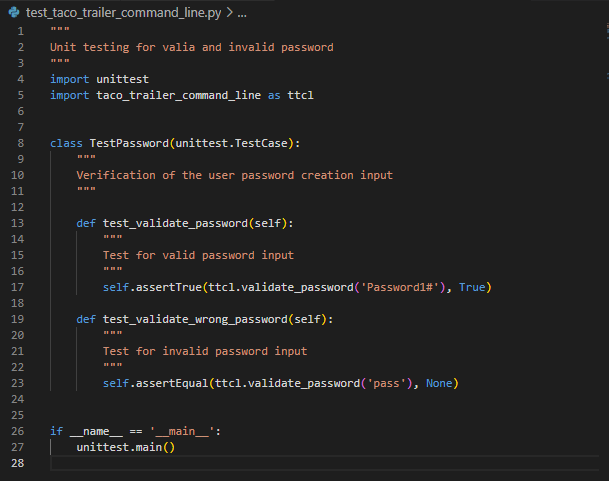
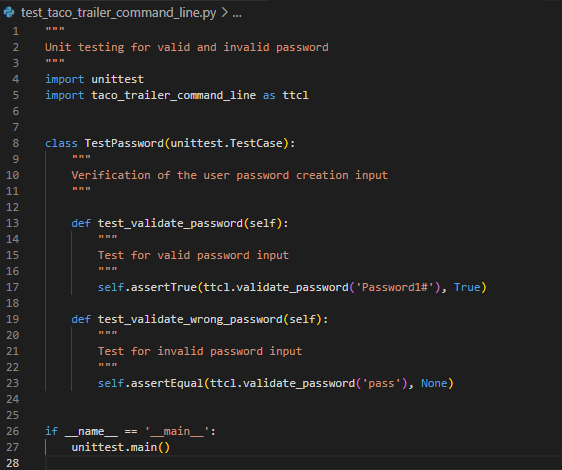
Update: Spelling error in doc string

diff --git a/test_taco_trailer_command_line.py b/test_taco_trailer_command_line.py
@@ -1,5 +1,5 @@
 """
-Unit testing for valia and invalid password
+Unit testing for valid and invalid password
 """
 import unittest
 import taco_trailer_command_line as ttcl
